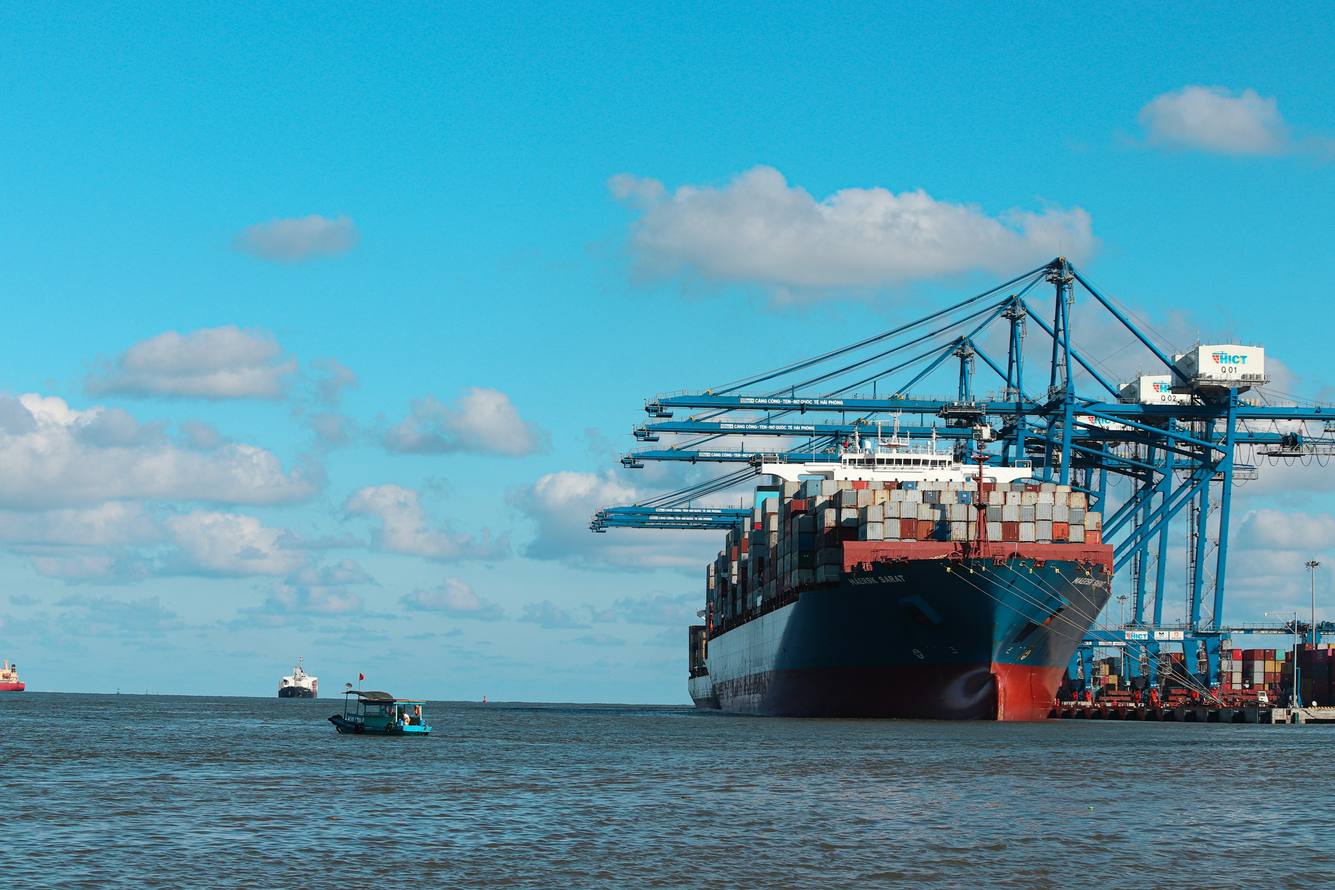
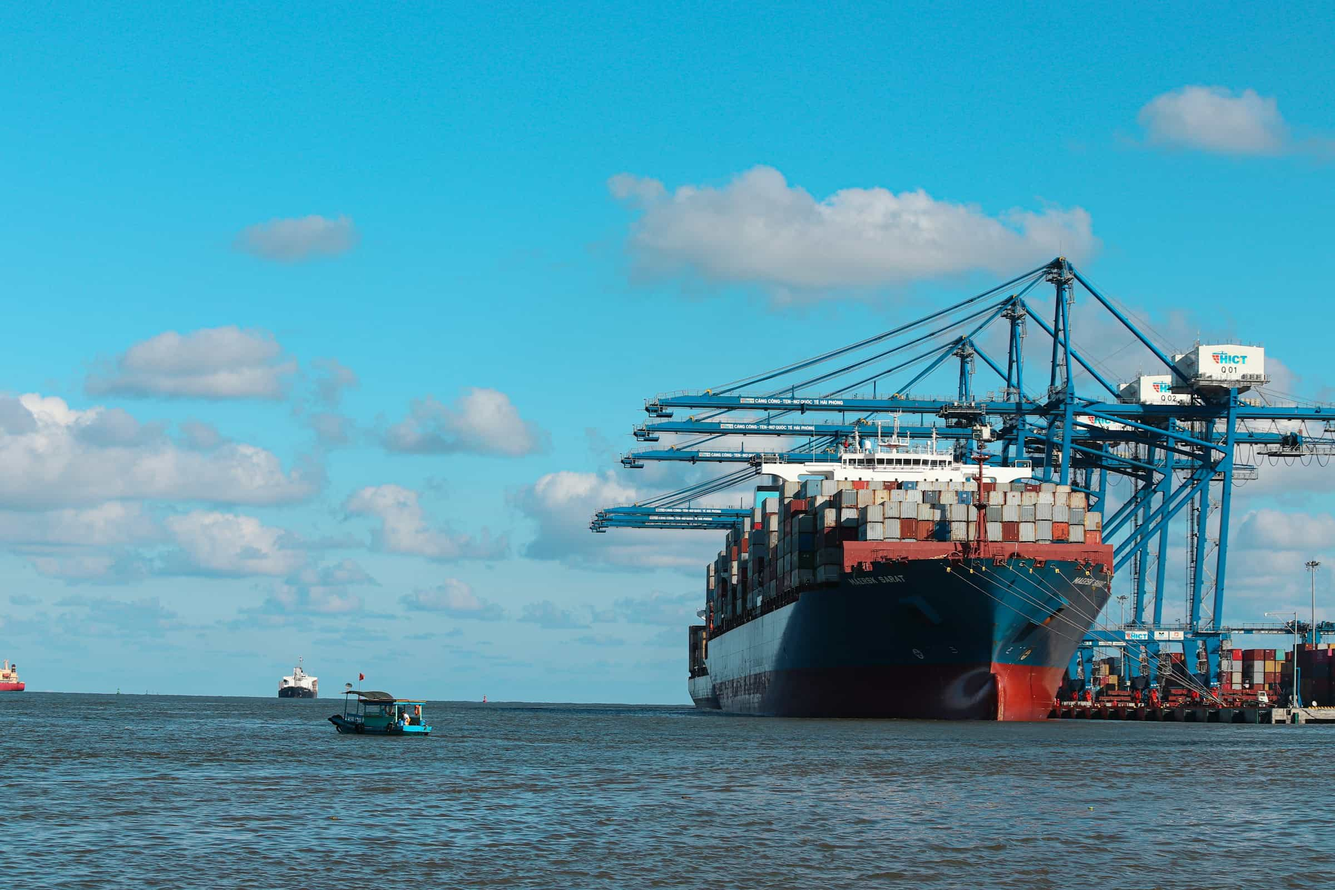
fixed services-hero-2.jpg associating to html instead of CSS
Compressed services hero image

edited scroll margin top on contact us for smoother scrolling

diff --git a/css/style.css b/css/style.css
@@ -1379,7 +1379,7 @@ color: black;
   font-size: 14px;
   background-color: darkred;
   height: 1000px;
-  scroll-margin-top: 30px;
+  scroll-margin-top: 8px;
 }
 
 .contact-us-content h2 {
@@ -2157,12 +2157,23 @@ footer {
   grid-template-rows: repeat(3, 1fr);
   grid-auto-rows: minmax(auto, max-content);
   font-family: 'montserrat', sans-serif;
-  background-image: url('../img/services-hero-2.jpg');
-  background-size: cover;
-  background-repeat: no-repeat;
-  background-position: center;
-  height: 80vh; /* Use viewport height for full screen */
+  height: 85vh;
   width: 100%;
+  overflow: hidden;
+}
+
+.services-hero img {
+  grid-column: 1 / 6;
+  grid-row: 1 / 4;
+  object-fit: cover;
+  width: 100%;
+  height: 120%;
+  display: flex;
+  position: absolute;
+  top: 40%;
+  left: 50%;
+  transform: translate(-50%, -50%) scale(1); /* Adjust the scale value as needed */
+  z-index: -1;
 }
 
 .services-hero h1 {
@@ -2175,6 +2186,7 @@ footer {
   margin-top: 110px;
   margin-bottom: 0;
   margin-left: 20px;
+  z-index: 1;
 }
 .services-hero h2 {
   grid-column: 1 / 3;

diff --git a/services.html b/services.html
@@ -94,6 +94,7 @@
 </header>
 <section id="services-hero" class="services-hero">
   <h1>Services</h1>
+  <img src="img/services-hero-2.jpg">
 </section>
 
 <section id="our-services" class="our-services">
